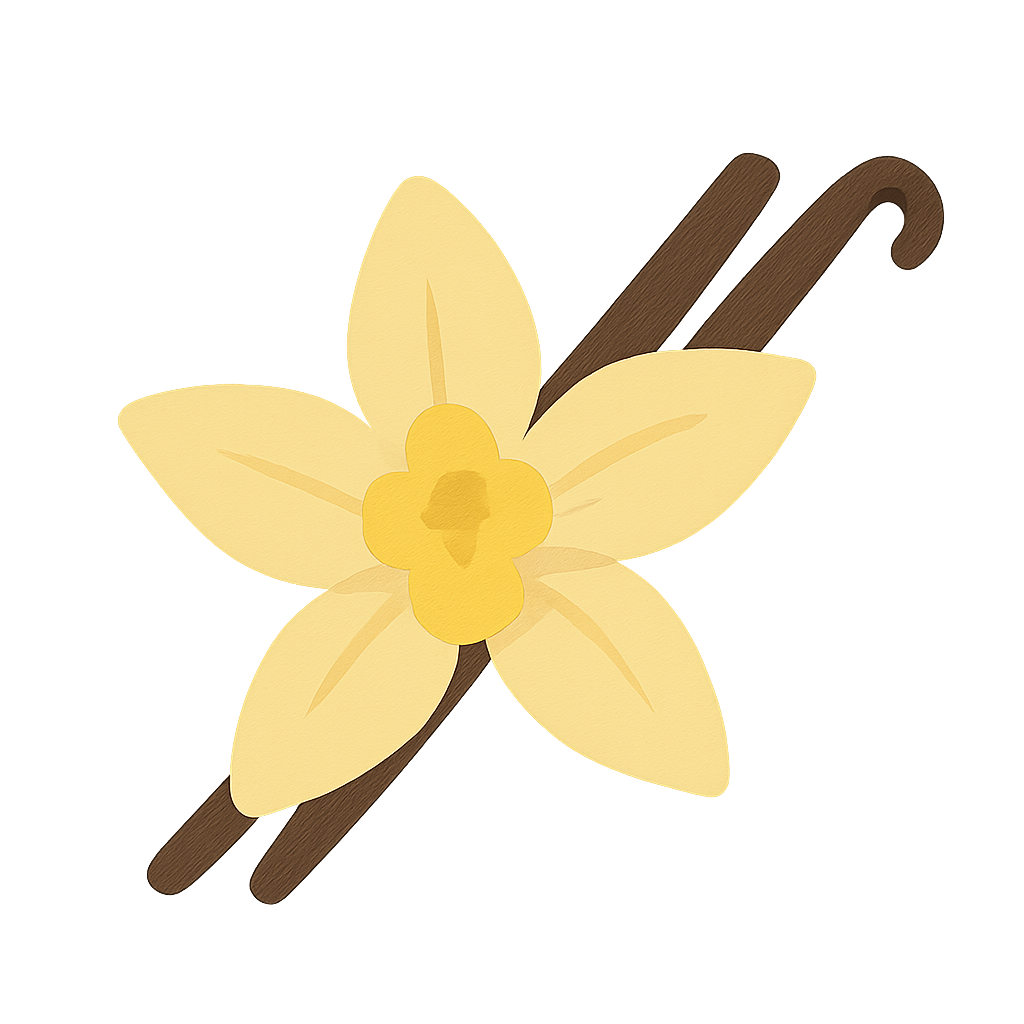
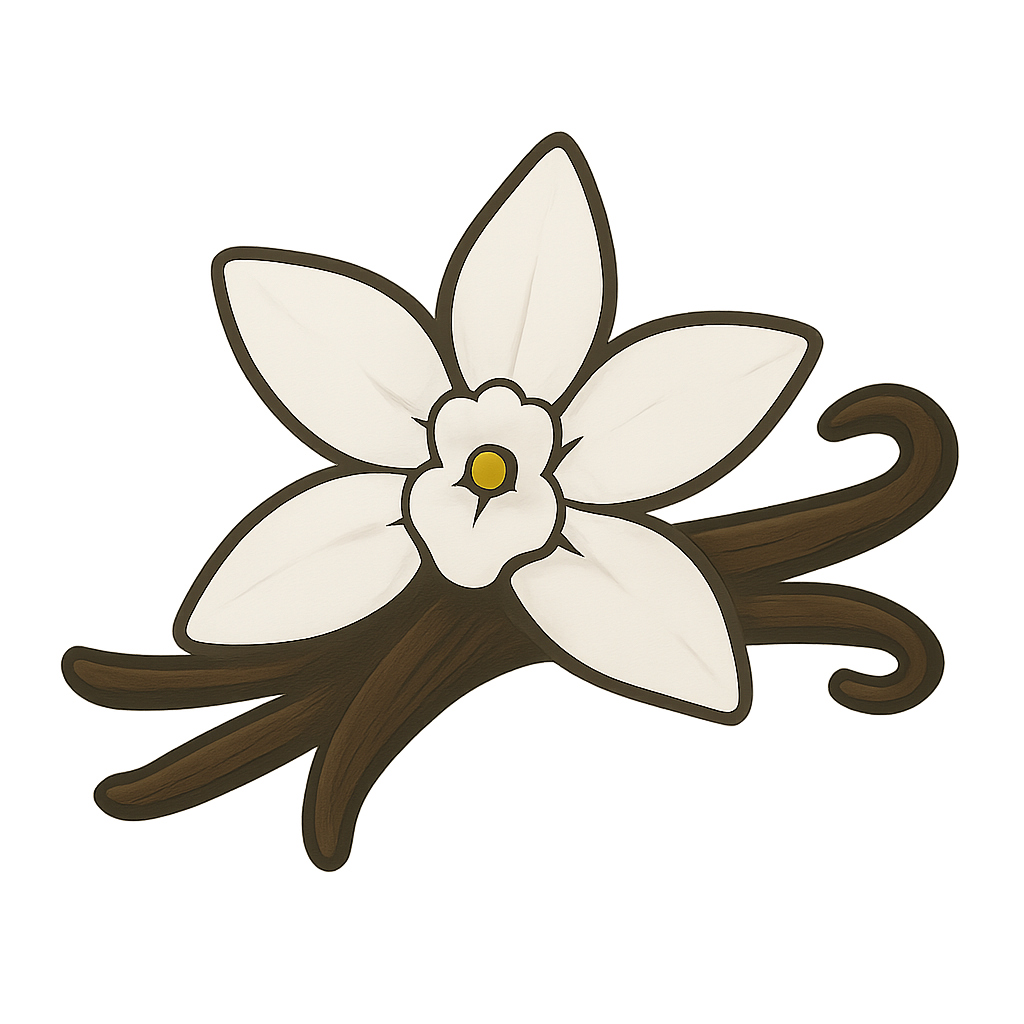
Color Activity + Images
- Color activity data updated
- Formatting done (hover + container)
- More images replaced

diff --git a/static/color_match.js b/static/color_match.js
@@ -5,7 +5,7 @@ document.addEventListener("DOMContentLoaded", () => {
     const fill = glass.querySelector(".glass-fill");
     fill.style.backgroundColor = colorOptions[i];
 
-    glass.addEventListener("click", () => {
+    glass.addEventListener("click", (event) => {
       if (glass.classList.contains("disabled")) return;
 
       const isCorrect = parseInt(glass.dataset.index) === correctIndex;
@@ -15,12 +15,32 @@ document.addEventListener("DOMContentLoaded", () => {
         fill.classList.add("correct-glow");
         glasses.forEach(g => g.classList.add("disabled"));
 
+        // ✨ Sparkle effect
+        const sparkle = document.createElement("div");
+        sparkle.textContent = "✨";
+        sparkle.className = "x-feedback-drag"; // reuse existing sparkle animation class
+
+        // Position it above the clicked glass
+        const rect = glass.getBoundingClientRect();
+        sparkle.style.left = `${rect.left + rect.width / 2}px`;
+        sparkle.style.top = `${rect.top}px`;
+
+        document.body.appendChild(sparkle);
+        sparkle.getBoundingClientRect(); // force reflow
+
+        requestAnimationFrame(() => {
+          sparkle.style.opacity = "0";
+          sparkle.style.transform = "translateY(-30px)";
+        });
+
+        setTimeout(() => sparkle.remove(), 1000);
+
         // ✅ Show continue button when correct glass is clicked
         const continueBtn = document.getElementById("continue-btn");
         if (continueBtn) {
           setTimeout(() => {
             continueBtn.style.display = "inline-block";
-          }, 500); // Slight delay for glow animation
+          }, 500);
         }
       } else {
         const x = document.createElement("div");

diff --git a/static/activity.css b/static/activity.css
@@ -143,14 +143,23 @@
 /* Color Match Styling -- START */ 
 
 .glass-options {
-    display: flex;
-    justify-content: space-between;
-    flex-wrap: nowrap;
-    margin-top: 2rem;
-    gap: 1rem;
-  }
+  display: flex;
+  justify-content: space-between;
+  align-items: center;
+  flex-wrap: wrap;
+  gap: 1rem;
+  padding: 1.5rem;
+  background-color: #f8f5f0; /* soft beige tone */
+  border: 2px solid #e0dcd5;
+  border-radius: 16px;
+  box-shadow: 0 4px 12px rgba(0, 0, 0, 0.1);
+}
   
   .wine-glass {
+    display: flex;              /* make it a flex container */
+    flex-direction: column;     /* stack contents vertically */
+    justify-content: center;    /* center vertically */
+    align-items: center;   
     position: relative;
     width: 22%; /* 4 per row, with spacing */
     max-width: 140px;
@@ -167,24 +176,21 @@
   
   .glass-fill {
     position: absolute;
-    top: 38%;
+    top: 17%;
     left: 20%;
     width: 60%;
-    height: 35%;
+    height: 40%;
     border-radius: 50%;
     z-index: 2;
     opacity: 0.85;
     pointer-events: auto;
+    align-items: center;
+    transition: transform 0.2s ease-in-out; /* ✅ this enables the scale effect */
   }
-  
-  .wine-glass img,
-  .wine-glass .glass-fill {
-    pointer-events: none; /* prevent image blocking click */
-  }
-  
-  .glass-fill {
-    pointer-events: auto; /* only the colored fill is clickable */
-  }
+
+.glass-fill:hover {
+  transform: scale(1.1);
+}
   
   .correct-glow {
     animation: sparkle 0.6s ease;

diff --git a/templates/activity2_colors.html b/templates/activity2_colors.html
@@ -1,8 +1,5 @@
 <!-- Color Match Activity -->
 <div class="row justify-content-center mt-5">
-    <div class="col-12 text-center">
-        <p class="activity-hint"><strong>Tip:</strong> {{ hint }}</p>
-    </div>
     <div class="col-10 d-flex justify-content-around flex-wrap glass-options" id="glass-options">
         {% for i in range(4) %}
         <div class="wine-glass" data-index="{{ i }}">
@@ -14,7 +11,8 @@
 </div>
 
 <script>
-    const colorOptions = JSON.parse('["#f5f3a8", "#f9caca", "#fce88b", "#f9f7e8"]');
-    const correctIndex = 0;
+    const colorOptions = JSON.parse('{{ color_options | tojson | safe }}');
+    const correctIndex = parseInt("{{ correct_index }}");
 </script>
+
 <script src="{{ url_for('static', filename='color_match.js') }}"></script>

diff --git a/templates/activity.html b/templates/activity.html
@@ -20,7 +20,7 @@
 <body>
     <div class="activity-wrapper container-fluid">
         <!-- Top Bar -->
-        <div class="row my-3 align-items-left">
+        <div class="row my-3 align-items-left" style="min-height: 9vh;">
             <div class="col-md-2 d-flex justify-content-start">
                 <!-- Back to map button -->
                 <form method="post" action="{{ url_for('map') }}">

diff --git a/app.py b/app.py
@@ -25,7 +25,7 @@ varietal_data = {
             2: {
                 "hint": "This wine is typically pale straw to light gold.",
                 "hint_short": "This wine is typically pale straw to light gold.",
-                "color_options": ["#f5f3a8", "#f9caca", "#fce88b", "#f9f7e8"],
+                "color_options": ["#F9F6D2", "#FAE1DC", "#ffbf6b", "#d42c48"],
                 "correct_index": 0
             },
             3: {
@@ -49,8 +49,8 @@ varietal_data = {
             2: {
                 "hint": "This wine is typically pale straw with greenish glints.",
                 "hint_short": "This wine is typically pale straw with greenish glints.",
-                "color_options": ["#f5f3a8", "#f9caca", "#fce88b", "#f9f7e8"],
-                "correct_index": 0
+                "color_options": ["#FFE3B3", "#e3747f", "#F4FCD9", "#ffbf6b"],
+                "correct_index": 2,
             },
             3: {
                 "hint": "Sauvignon Blanc is perfect with fresh, zesty, and herbaceous dishes.",
@@ -73,8 +73,8 @@ varietal_data = {
             2: {
                 "hint": "This wine ranges from pale gold to rich, buttery yellow.",
                 "hint_short": "This wine ranges from pale gold to rich, buttery yellow.",
-                "color_options": ["#f5f3a8", "#f9caca", "#fce88b", "#f9f7e8"],
-                "correct_index": 0
+                "color_options": ["#F4FCD9", "#e3747f", "#C9D4A5", "#E3DB94"],
+                "correct_index": 3,
             },
             3: {
                 "hint": "Chardonnay pairs wonderfully with rich, creamy, and buttery foods.",
@@ -89,16 +89,16 @@ varietal_data = {
         "varietal_url": "pinot_noir",
         "activities": {
             1: {
-                "hint": "Pinot Noir is delicate, earthy, and quietly complex. Think ripe cherry, soft spice, and subtle floral notes.",
-                "hint_short": "Think ripe cherry, soft spice, and subtle floral notes.",
+                "hint": "Pinot Noir is delicate, earthy, and quietly complex. Think soft spice and subtle floral notes.",
+                "hint_short": "Think soft spice and subtle floral notes.",
                 "note_options": ["cherry", "vanilla", "raspberry", "mushroom", "butter", "blackberry", "clove", "cinnamon"],
                 "correct_notes": ["cherry", "clove", "raspberry", "mushroom"],
             },
             2: {
                 "hint": "This wine is typically light ruby to translucent garnet.",
                 "hint_short": "This wine is typically light ruby to translucent garnet.",
-                "color_options": ["#f5f3a8", "#f9caca", "#fce88b", "#f9f7e8"],
-                "correct_index": 0
+                "color_options": ["#E3DB94", "#d49299", "#A42C2C", "#781F1F"],
+                "correct_index": 2
             },
             3: {
                 "hint": "Pinot Noir is a great match for earthy, savory, and subtly spiced dishes.",
@@ -113,16 +113,16 @@ varietal_data = {
         "varietal_url": "cabernet_sauvignon",
         "activities": {
             1: {
-                "hint": "Cabernet Sauvignon is bold, structured, and unapologetically full-bodied. Think blackcurrant, tobacco, and a whisper of cedar.",
-                "hint_short": "Think blackcurrant, tobacco, and a whisper of cedar.",
-                "note_options": ["lemon", "lime", "peach", "apple", "apricot", "pineapple", "grass", "cedar"],
-                "correct_notes": ["lemon", "peach", "apple"],
+                "hint": "Cabernet Sauvignon is bold, structured, and unapologetically full-bodied. Think dark berries, dried leaves, and a touch of wood and smoke.",
+                "hint_short": "Think dark berries, dried leaves, and the fireplace.",
+                "note_options": ["tobacco", "butter", "peach", "black_currant", "cedar", "vanilla", "grass", "blackberry"],
+                "correct_notes": ["black_currant", "blackberry", "tobacco", "cedar"],
             },
             2: {
                 "hint": "This wine is deep ruby to inky purple, often nearly opaque.",
                 "hint_short": "This wine is deep ruby to inky purple, often nearly opaque.",
-                "color_options": ["#f5f3a8", "#f9caca", "#fce88b", "#f9f7e8"],
-                "correct_index": 0
+                "color_options": ["#F4FCD9", "#d49299", "#4B0F1C", "#9F1D35"],
+                "correct_index": 2
             },
             3: {
                 "hint": "Cabernet Sauvignon complements hearty, grilled, and bold-flavored meals.",
@@ -139,7 +139,7 @@ activities = {
         "instructions": "Tap on the images that feel like {{ varietal_name }}. Avoid anything that doesn't match the vibe."
     },
     2: {
-        "name": "Color Me",
+        "name": "Color the Correct Glass",
         "button": "Start Coloring",
         "instructions": "Which color looks most like a glass of {{ varietal_name }}?"
     },
